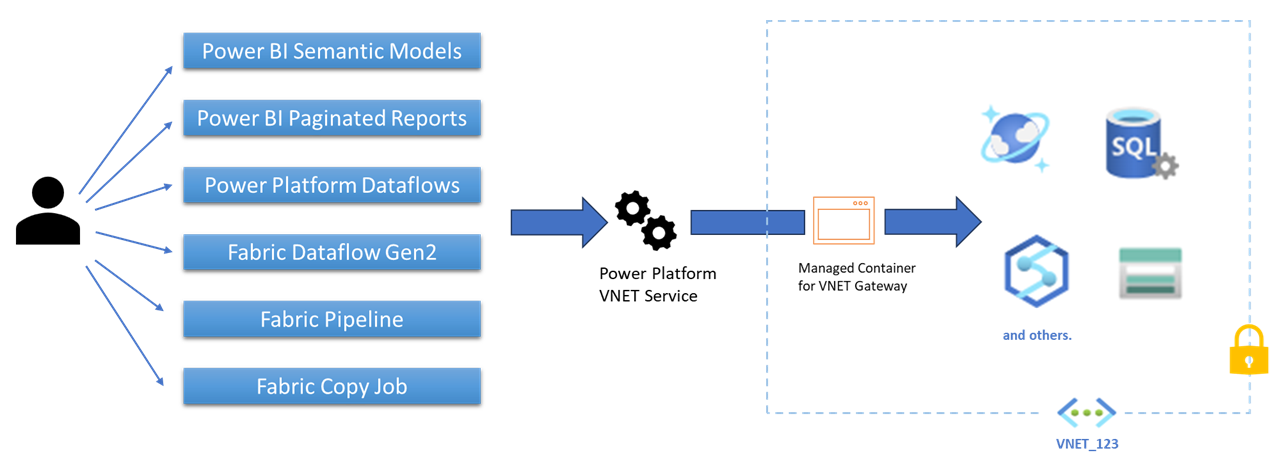
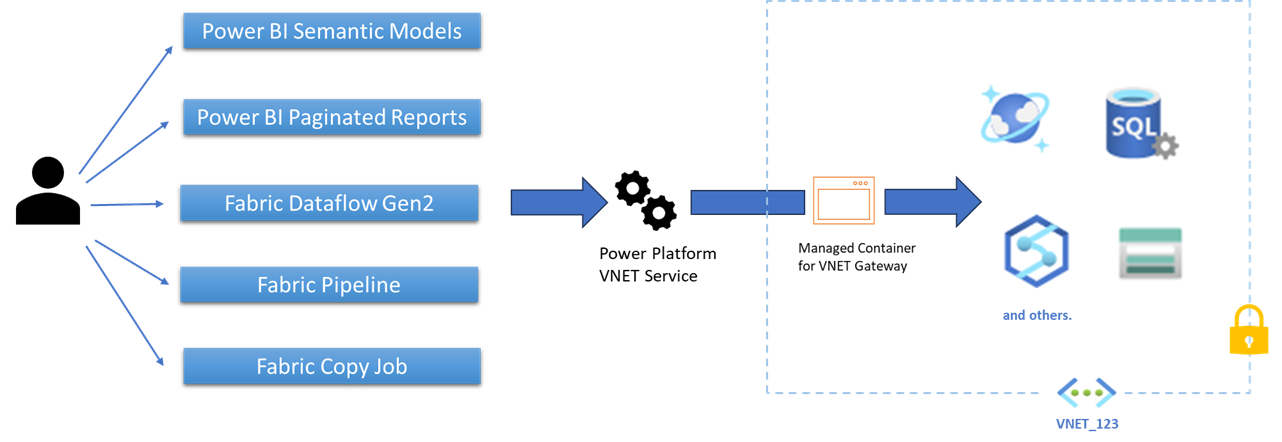
remove the power platform dataflows

diff --git a/data-integration/vnet/overview.md b/data-integration/vnet/overview.md
@@ -8,7 +8,7 @@ ms.date: 05/06/2024
 # What is a virtual network (VNet) data gateway?
 
 The virtual network data gateway lets you connect your Azure and other data services to Microsoft Fabric and the Power Platform to securely communicate with the data source, execute queries, and transmit results back to the service. 
-- You can run Dataflow Gen2, Power BI Semantic Models, Power Platform Dataflows, and Power BI Paginated Reports on top of a virtual network data gateway.
+- You can run Fabric Dataflow Gen2, Fabric Pipeline, Fabric Copy Job, Fabric Mirroring, Power BI Semantic Models, and Power BI Paginated Reports on top of a virtual network data gateway.
 
 ## Why use the VNet data gateway?
 
@@ -24,7 +24,7 @@ The virtual network data gateway:
 
 ## Limitations
 
-- Currently, this feature is available only for Fabric Dataflow Gen2, Fabric Pipeline, Fabric Copy Job, Fabric Mirroring, Power BI semantic models, Power Platform dataflows, and Power BI paginated reports. Power BI dataflows and datamarts aren't supported.
+- Currently, this feature is available only for Fabric Dataflow Gen2, Fabric Pipeline, Fabric Copy Job, Fabric Mirroring, Power BI semantic models, and Power BI paginated reports. Power BI dataflows and datamarts aren't supported.
 
 > [!NOTE]
 > The VNet data gateway support for Fabric Pipeline, Copy Job and Mirroring is now in public preview. In Fabric Pipeline, it currently supports Copy, Lookup, and GetMetadata activities.
